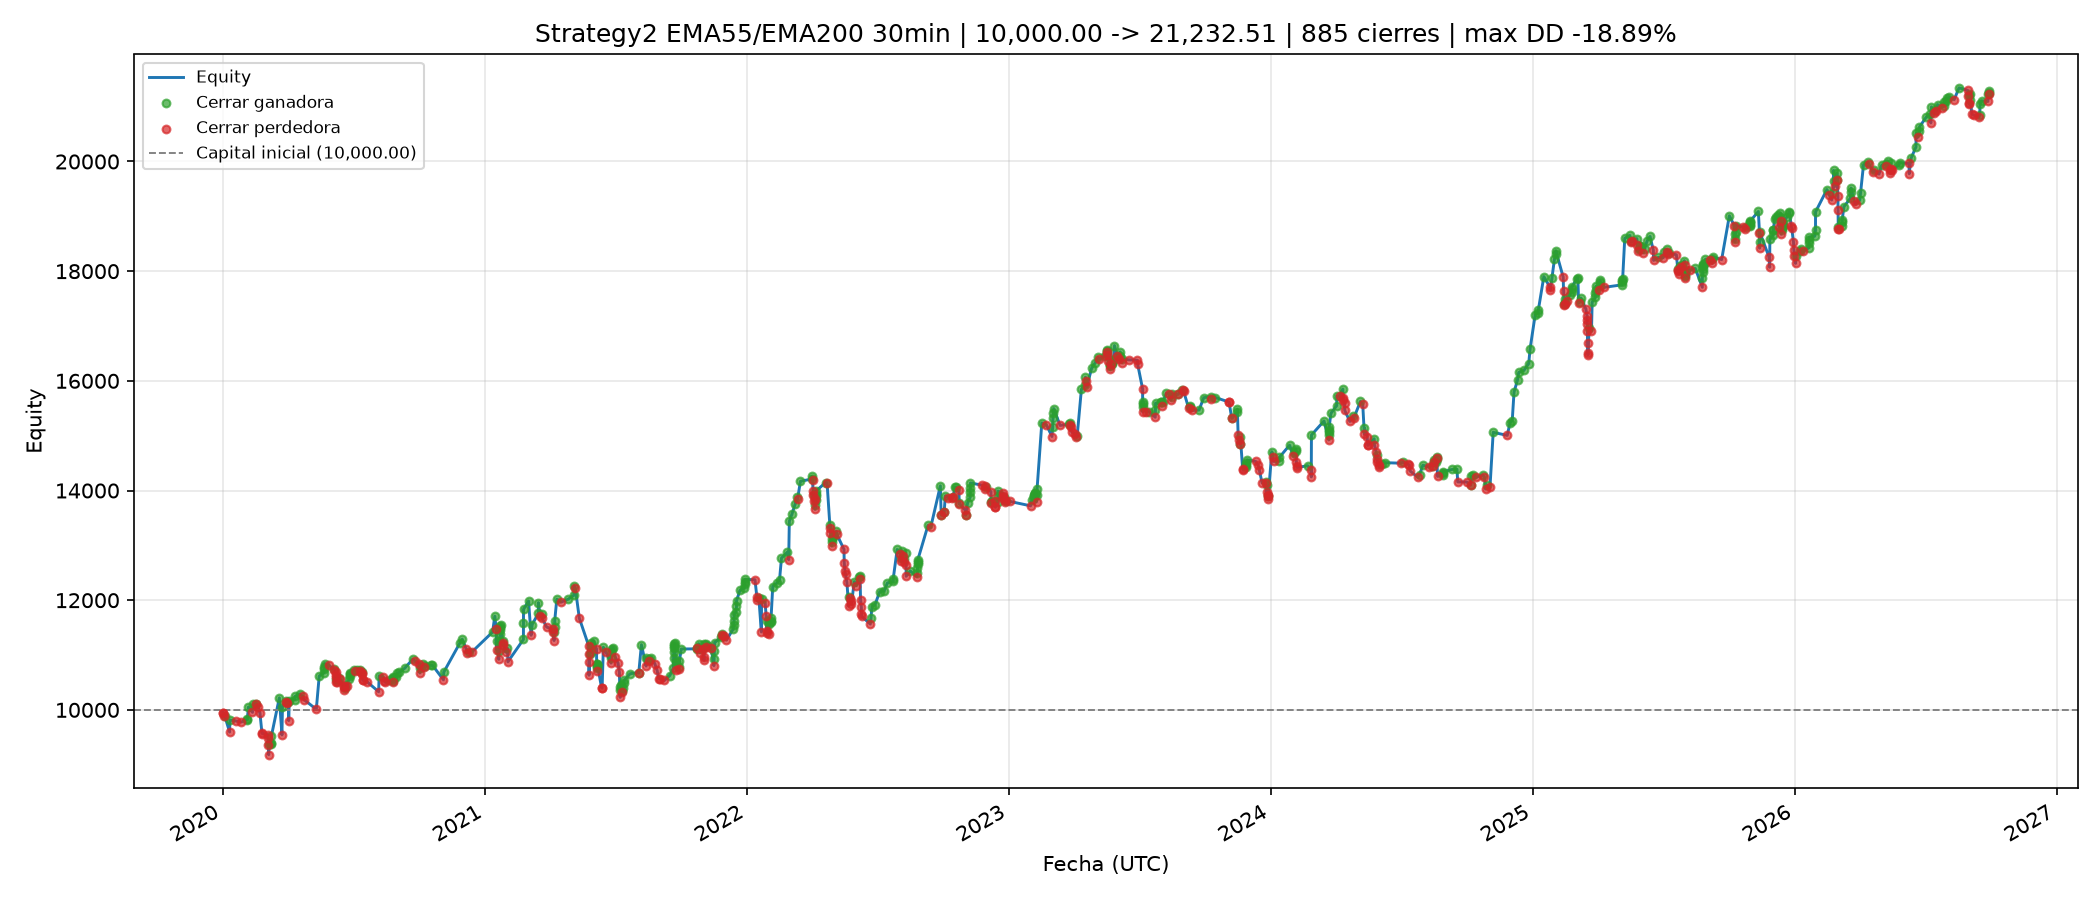
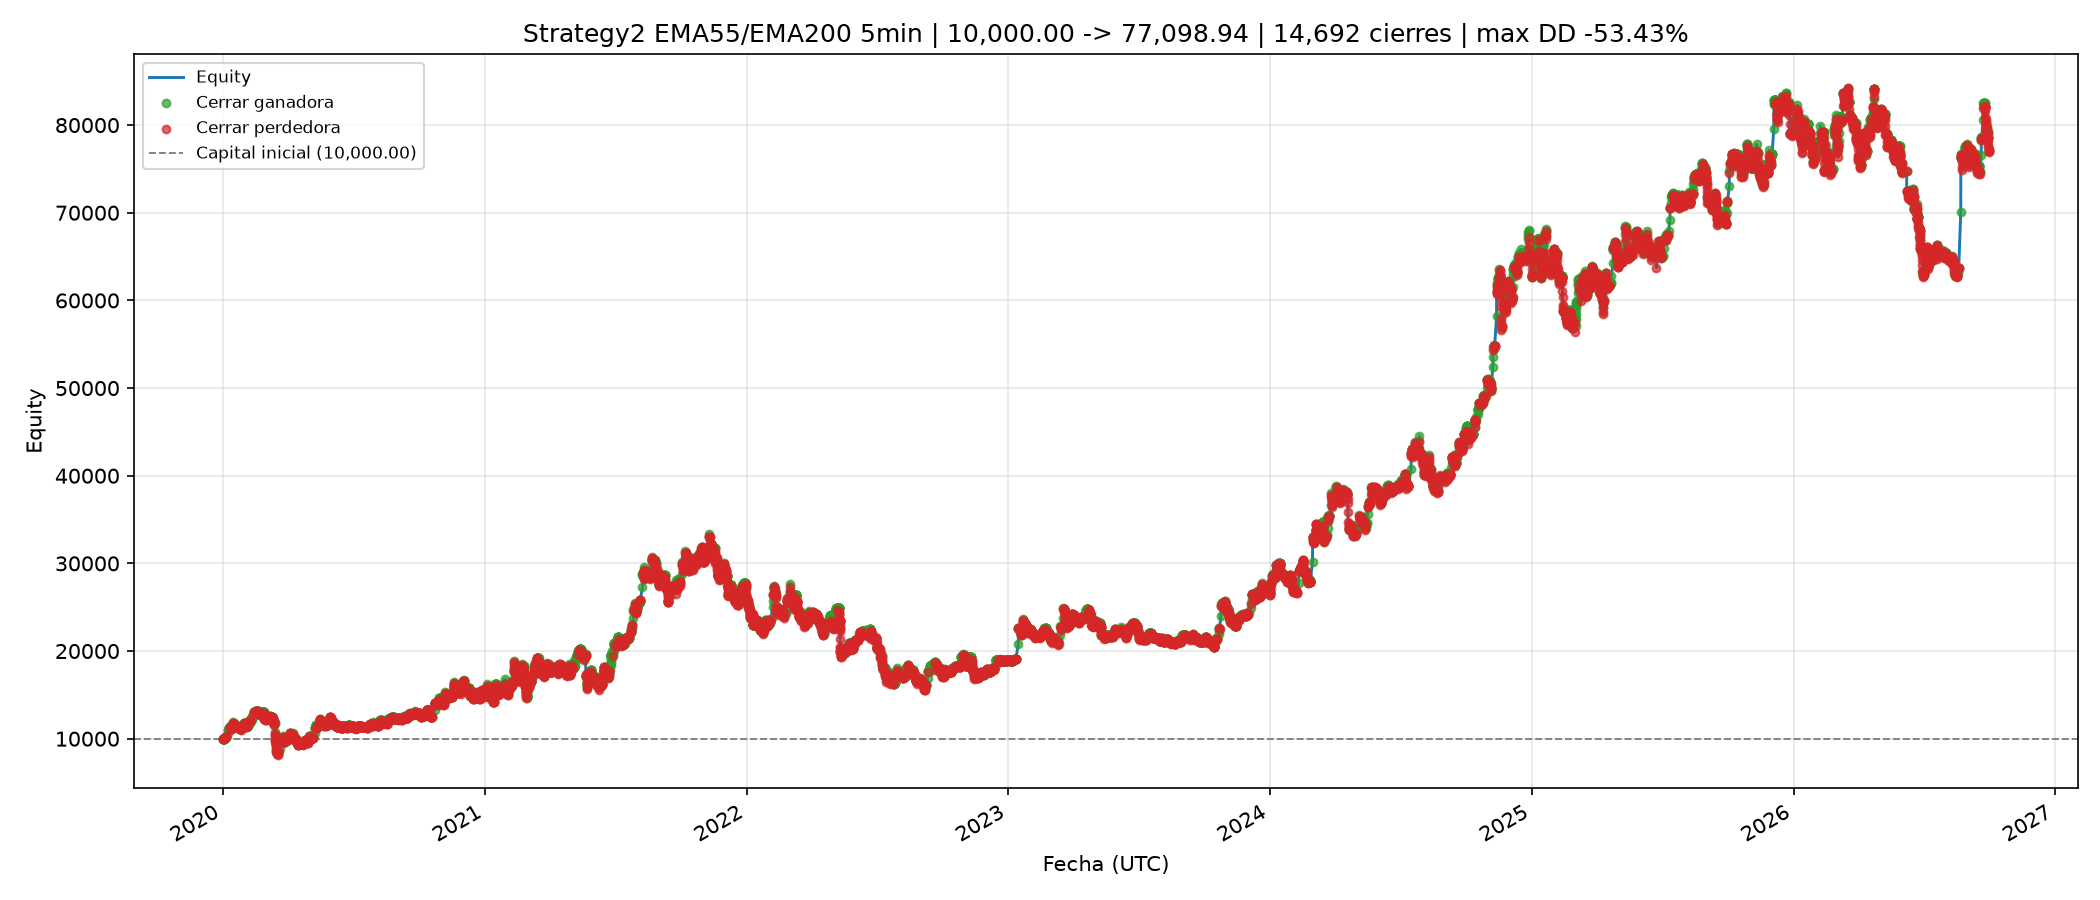
update

diff --git a/backend/services/backtest/bin/legacy/strategy/strategy2.py b/backend/services/backtest/bin/legacy/strategy/strategy2.py
@@ -19,6 +19,12 @@ Reglas:
         estrategia (30m), cuando el RSI cruza A LA BAJA el nivel
         `rsi_exit_level` (32) se cierra el % `rsi_exit_pct` del
         SHORT abierto. No aplica a LONG.
+    SALIDA POR DEBILITAMIENTO DEL 30m -> cuando el gap entre la EMA
+        rápida y la EMA lenta del timeframe de la estrategia cae por
+        debajo de `ema_weakening_gap_pct` (las EMAs se acercan y la
+        tendencia pierde fuerza) se cierra el %
+        `ema_weakening_exit_pct` de la posición. Aplica a LONG y
+        SHORT.
 
 La entrada sigue siendo SOLO el cruce de EMAs. No hay ATR.
 
@@ -72,7 +78,7 @@ class Config:
     ema_slow: int = 200
 
     # Timeframe de la estrategia.
-    timeframe: str = "30min"
+    timeframe: str = "5min"
 
     # Lados habilitados.
     allow_long: bool = True
@@ -92,7 +98,7 @@ class Config:
     # Salida por reversión del ADX en un timeframe menor (ej. 5m).
     # adx_exit_pct = 100 -> cierre total; < 100 -> salida parcial.
     adx_exit_enabled: bool = True
-    adx_timeframe: str = "5min"
+    adx_timeframe: str = "1min"
     adx_dilen: int = 14
     adx_adxlen: int = 14
     adx_key_level: float = 23.0
@@ -104,6 +110,13 @@ class Config:
     rsi_len: int = 14
     rsi_exit_level: float = 32.0
     rsi_exit_pct: float = 50.0
+
+    # Salida parcial por debilitamiento del timeframe de la
+    # estrategia: el gap |EMAfast-EMAslow|/EMAslow cae por debajo de
+    # `ema_weakening_gap_pct`.
+    ema_weakening_exit_enabled: bool = True
+    ema_weakening_gap_pct: float = 0.001
+    ema_weakening_exit_pct: float = 50.0
 
     force_close_at_end: bool = True
 
@@ -170,6 +183,19 @@ class Config:
             if not (0.0 < self.rsi_exit_pct <= 100.0):
                 raise ValueError(
                     "rsi_exit_pct debe estar entre 0 (excl.) y 100."
+                )
+
+        if self.ema_weakening_exit_enabled:
+
+            if self.ema_weakening_gap_pct <= 0:
+                raise ValueError(
+                    "ema_weakening_gap_pct debe ser > 0."
+                )
+
+            if not (0.0 < self.ema_weakening_exit_pct <= 100.0):
+                raise ValueError(
+                    "ema_weakening_exit_pct debe estar entre "
+                    "0 (excl.) y 100."
                 )
 
         if not self.allow_long and not self.allow_short:
@@ -774,6 +800,43 @@ def rsi_exit_flags(
 
     return flags
 
+
+def ema_weakening_flags(
+    ef: np.ndarray,
+    es: np.ndarray,
+    gap_pct: float,
+) -> np.ndarray:
+
+    """
+    Marca la vela donde el gap entre EMAs se cierra por debajo de
+    `gap_pct`.
+
+    Es la señal de debilitamiento del timeframe de la estrategia: la
+    EMA rápida y la lenta se acercan y la tendencia pierde fuerza. Se
+    dispara en el cruce (de gap >= umbral a gap < umbral) para no
+    repetir la salida mientras el gap permanece comprimido.
+    """
+
+    ef = np.asarray(ef, dtype=float)
+    es = np.asarray(es, dtype=float)
+
+    flags = np.zeros(len(ef), dtype=bool)
+
+    if len(ef) < 2 or gap_pct <= 0:
+        return flags
+
+    with np.errstate(invalid="ignore", divide="ignore"):
+
+        gap = np.abs(ef - es) / es
+
+    prev = gap[:-1]
+    cur = gap[1:]
+
+    with np.errstate(invalid="ignore"):
+
+        flags[1:] = (prev > gap_pct) & (cur <= gap_pct)
+
+    return flags
 
 
 def _source_minutes(data: pd.DataFrame) -> float:
@@ -1397,6 +1460,15 @@ def print_report(
             f"cierra {cfg.rsi_exit_pct:g}% (solo SHORT)"
         )
 
+    if cfg.ema_weakening_exit_enabled:
+
+        print(
+            f"Weakening exit  : "
+            f"gap EMAs {cfg.timeframe} < "
+            f"{cfg.ema_weakening_gap_pct:.4%} -> "
+            f"cierra {cfg.ema_weakening_exit_pct:g}%"
+        )
+
     print("=" * 72)
 
 
@@ -1679,6 +1751,18 @@ class Strategy2Backtester:
         self.rsi_exit = np.asarray(rsi_exit, dtype=bool)
 
         self.sig = build_features(data, config)
+
+        if (
+            config.ema_weakening_exit_enabled
+            and config.ema_weakening_gap_pct > 0
+        ):
+            self.weak_exit = ema_weakening_flags(
+                self.sig["ef"],
+                self.sig["es"],
+                config.ema_weakening_gap_pct,
+            )
+        else:
+            self.weak_exit = np.zeros(len(data), dtype=bool)
 
         self.o = data["open"].to_numpy(float)
         self.h = data["high"].to_numpy(float)
@@ -2122,6 +2206,20 @@ class Strategy2Backtester:
             else f"{rsi_reason}_{rsi_exit_pct:g}%"
         )
 
+        weakening_reason = (
+            f"EMA_WEAKENING_{cfg.timeframe.upper()}"
+        )
+
+        weakening_exit_pct = float(
+            cfg.ema_weakening_exit_pct
+        )
+
+        weakening_exit_reason = (
+            weakening_reason
+            if weakening_exit_pct >= 100.0
+            else f"{weakening_reason}_{weakening_exit_pct:g}%"
+        )
+
         started = time.perf_counter()
 
         last_log = -10
@@ -2196,10 +2294,23 @@ class Strategy2Backtester:
                     if current != target:
                         new_target = target
 
-                # Salidas parciales (ADX 5m / RSI 30m): solo si no
-                # hay un cruce contrario que ya revertiría.
+                # Salidas parciales (debilitamiento 30m / ADX 5m /
+                # RSI 30m): solo si no hay un cruce contrario que ya
+                # revertiría.
                 if (
                     new_target is None
+                    and self.position is not None
+                    and self.weak_exit[i]
+                ):
+
+                    new_exit = (
+                        weakening_exit_reason,
+                        weakening_exit_pct,
+                    )
+
+                if (
+                    new_exit is None
+                    and new_target is None
                     and self.position is not None
                     and self.adx_exit[i]
                 ):
@@ -2428,6 +2539,40 @@ def parse_args():
     )
 
     p.add_argument(
+        "--ema-weakening-exit",
+        action=argparse.BooleanOptionalAction,
+        default=d.ema_weakening_exit_enabled,
+        help=(
+            "Salida parcial por debilitamiento del timeframe de la "
+            "estrategia (gap entre EMAs por debajo del umbral). "
+            "Default: %(default)s. Usa --no-ema-weakening-exit para "
+            "deshabilitarla."
+        ),
+    )
+
+    p.add_argument(
+        "--ema-weakening-gap-pct",
+        type=float,
+        default=d.ema_weakening_gap_pct,
+        help=(
+            "Gap mínimo |EMAfast-EMAslow|/EMAslow que debe "
+            "mantenerse antes de considerar debilitamiento "
+            "(default: 0.001 = 0.1%%)."
+        ),
+    )
+
+    p.add_argument(
+        "--ema-weakening-exit-pct",
+        type=float,
+        default=d.ema_weakening_exit_pct,
+        help=(
+            "Porcentaje de la posición a cerrar al debilitarse el "
+            "timeframe (100 = cierre total; <100 = parcial; "
+            "default: 50)."
+        ),
+    )
+
+    p.add_argument(
         "--adx-timeframe",
         default=d.adx_timeframe,
         help="Timeframe del ADX de salida (default: 5min).",
@@ -2557,6 +2702,9 @@ def make_config(args) -> Config:
         rsi_len=args.rsi_len,
         rsi_exit_level=args.rsi_exit_level,
         rsi_exit_pct=args.rsi_exit_pct,
+        ema_weakening_exit_enabled=args.ema_weakening_exit,
+        ema_weakening_gap_pct=args.ema_weakening_gap_pct,
+        ema_weakening_exit_pct=args.ema_weakening_exit_pct,
         force_close_at_end=not args.no_force_close,
         timestamp_is_close=(
             Config().timestamp_is_close
